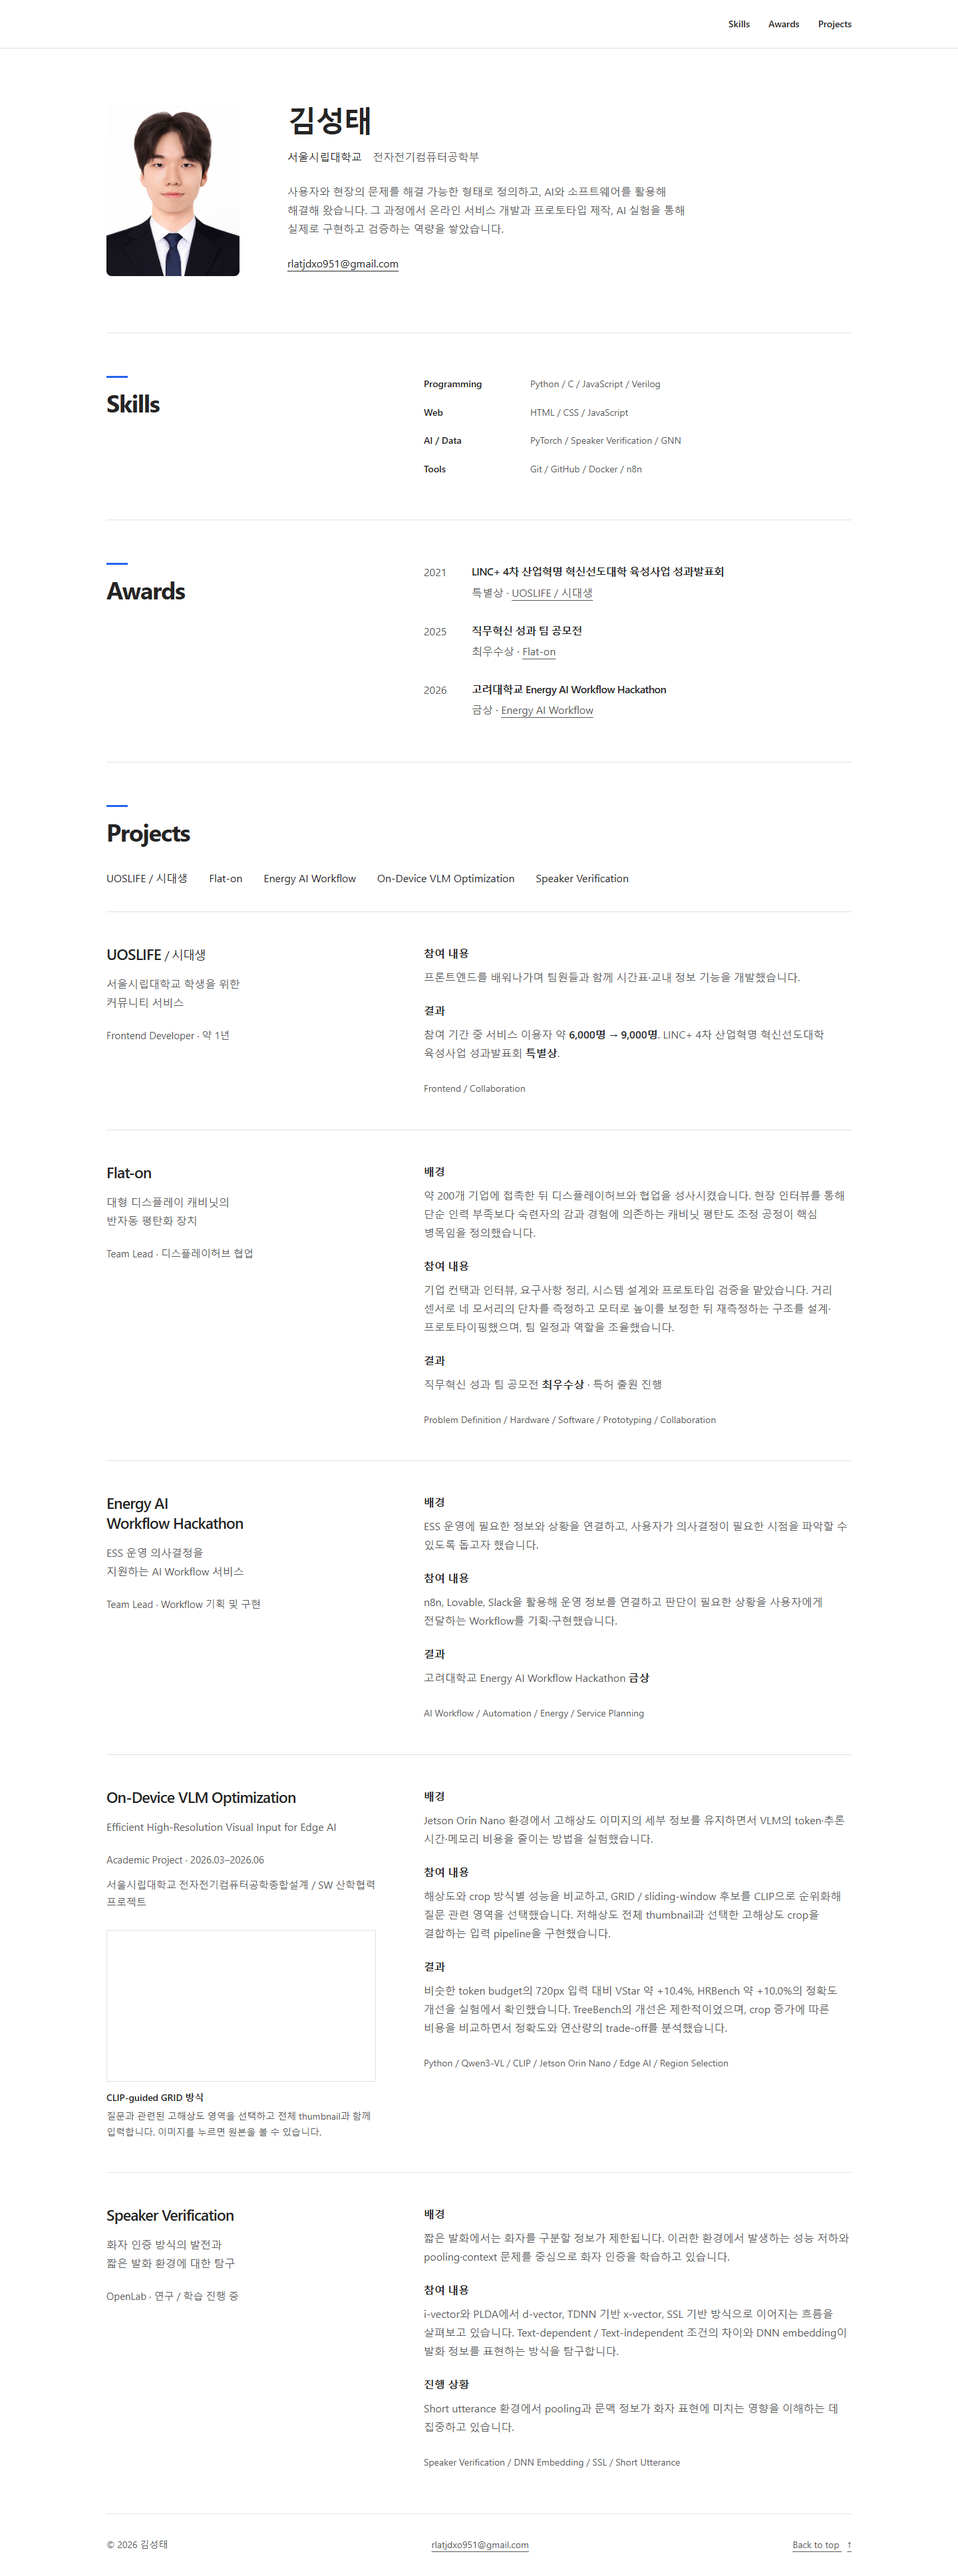
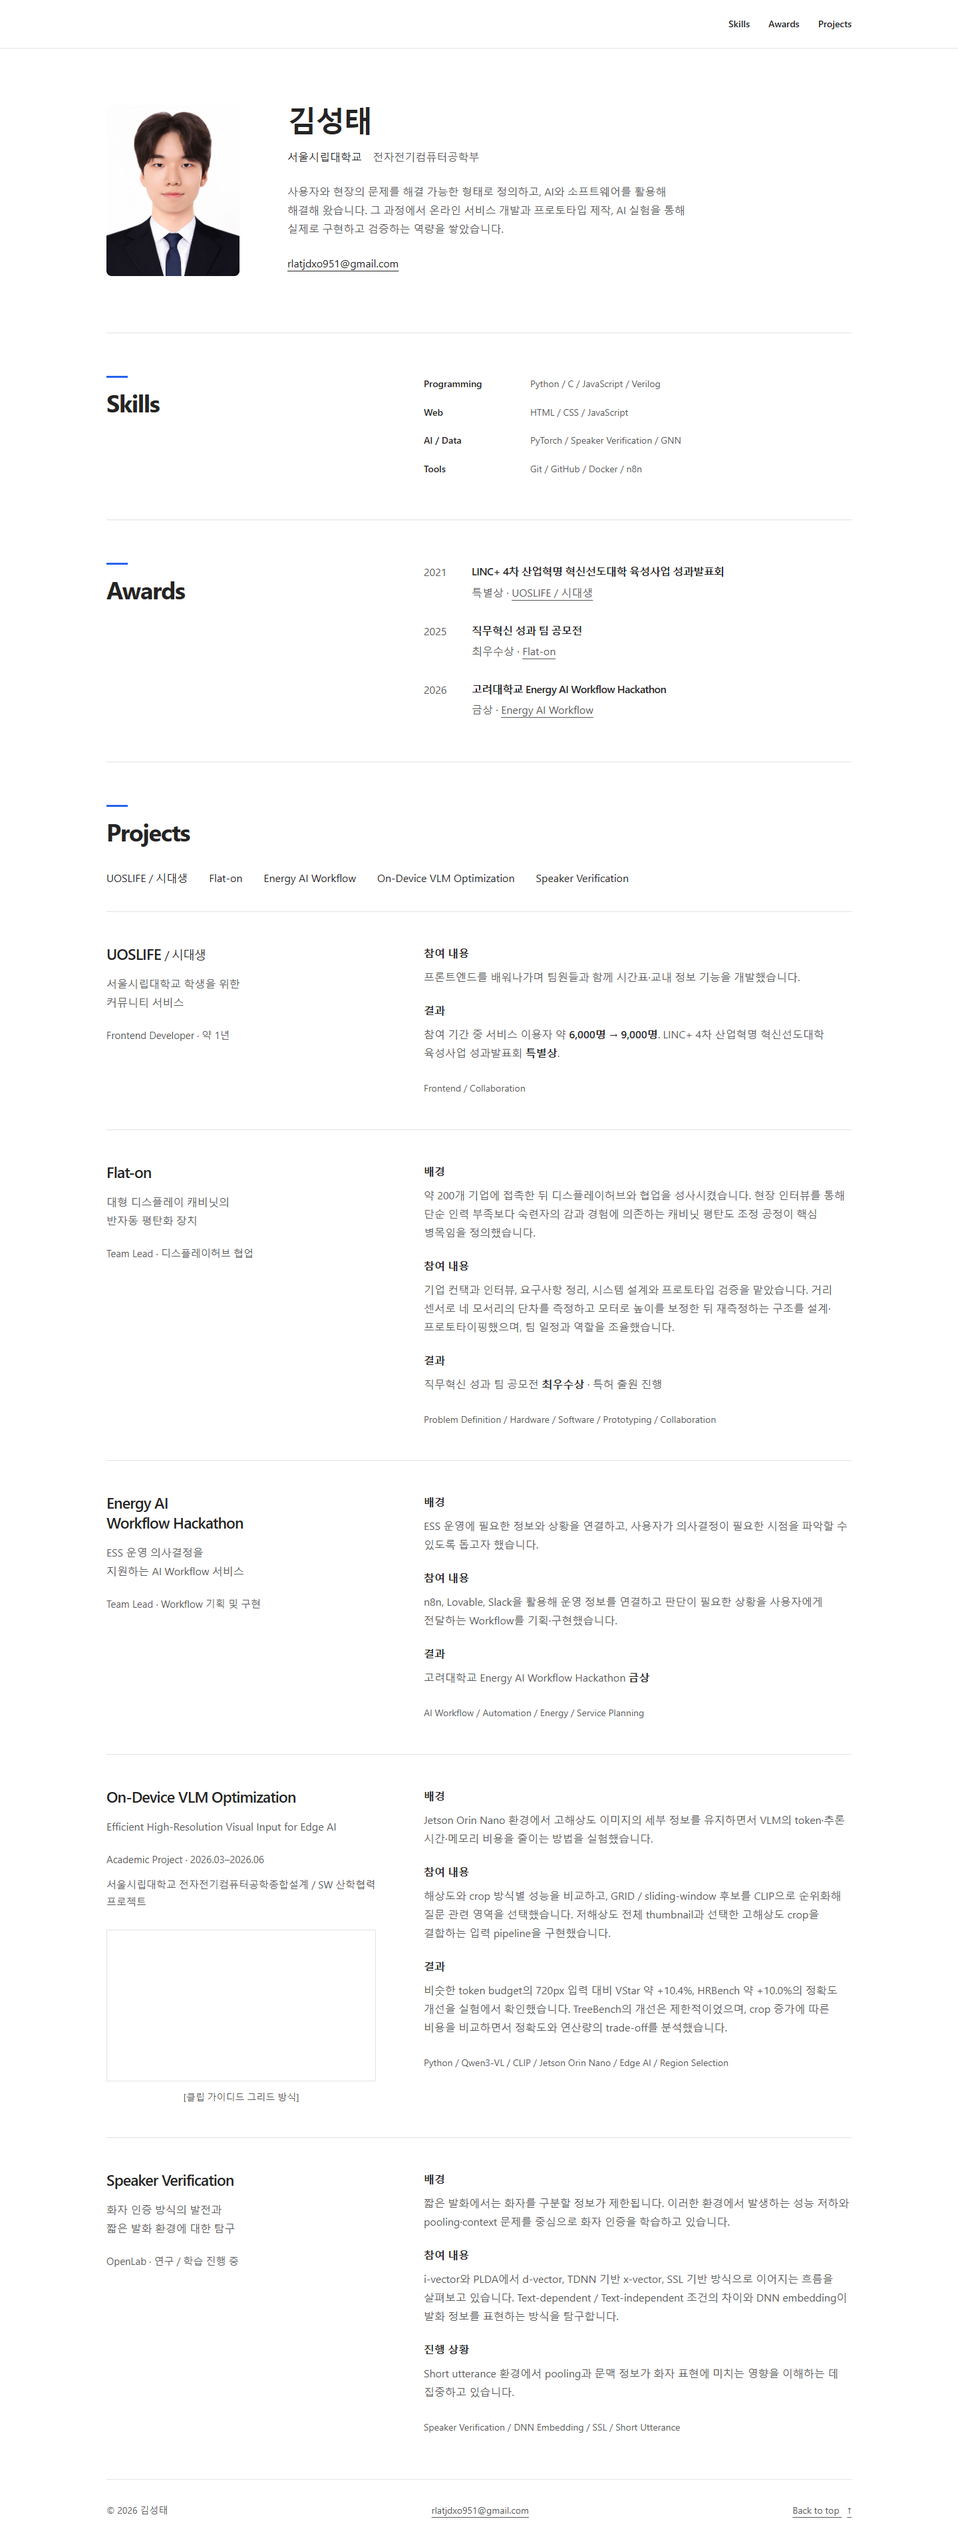
style: shorten and center VLM diagram caption

diff --git a/index.html b/index.html
@@ -127,7 +127,7 @@
             <a href="./images/clip_guided%20grid.png" target="_blank" rel="noopener noreferrer" aria-label="CLIP-guided GRID 방식 설명 이미지 원본 보기 (새 탭)">
               <img src="./images/clip_guided%20grid.png" alt="GRID와 sliding-window로 후보 영역을 생성하고, 질문과의 CLIP 유사도로 상위 영역을 선택한 뒤 전체 thumbnail과 함께 Qwen3-VL에 입력하는 과정" width="1672" height="941" loading="lazy" />
             </a>
-            <figcaption><strong>CLIP-guided GRID 방식</strong>질문과 관련된 고해상도 영역을 선택하고 전체 thumbnail과 함께 입력합니다. 이미지를 누르면 원본을 볼 수 있습니다.</figcaption>
+            <figcaption>[클립 가이디드 그리드 방식]</figcaption>
           </figure>
         </header>
         <div class="project-body">

diff --git a/css/style.css b/css/style.css
@@ -118,8 +118,7 @@ h2 { font-size: 36px; font-weight: 750; }
 .project-figure { margin: 28px 0 0; }
 .project-figure a { display: block; }
 .project-figure img { display: block; width: 100%; height: auto; border: 1px solid var(--border); }
-.project-figure figcaption { margin-top: 12px; color: var(--muted); font-size: 14px; line-height: 1.7; }
-.project-figure figcaption strong { display: block; margin-bottom: 4px; color: var(--text); font-weight: 600; }
+.project-figure figcaption { margin-top: 12px; color: var(--muted); font-size: 14px; line-height: 1.7; text-align: center; }
 
 .hero-email { margin-top: 14px; font-size: 16px; color: var(--text); }
 .project-index { margin-top: 24px; padding-bottom: 28px; border-bottom: 1px solid var(--border); }
